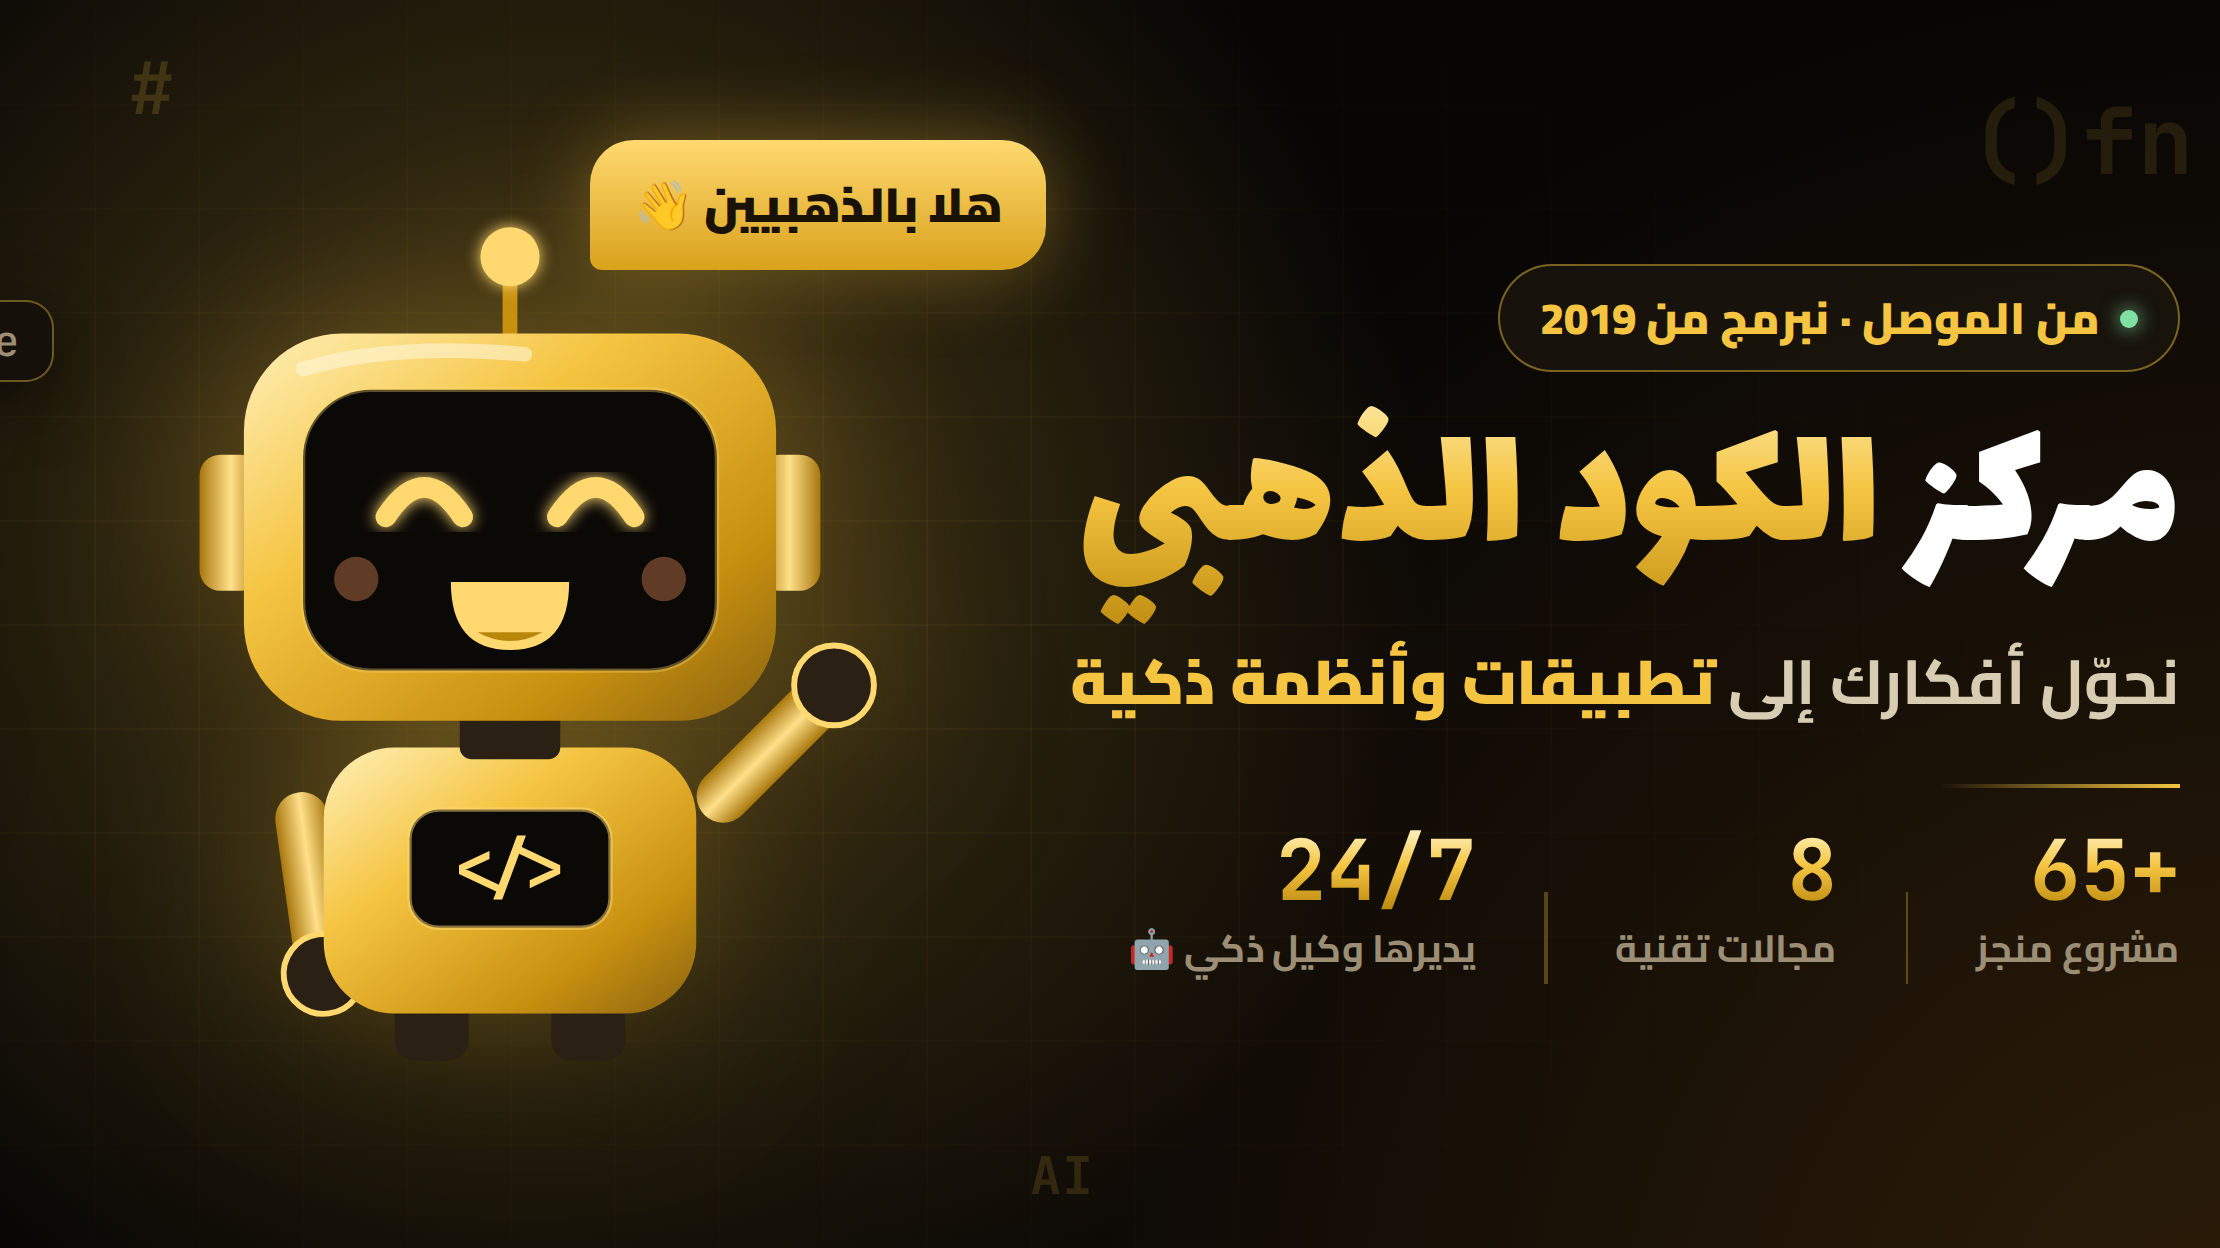
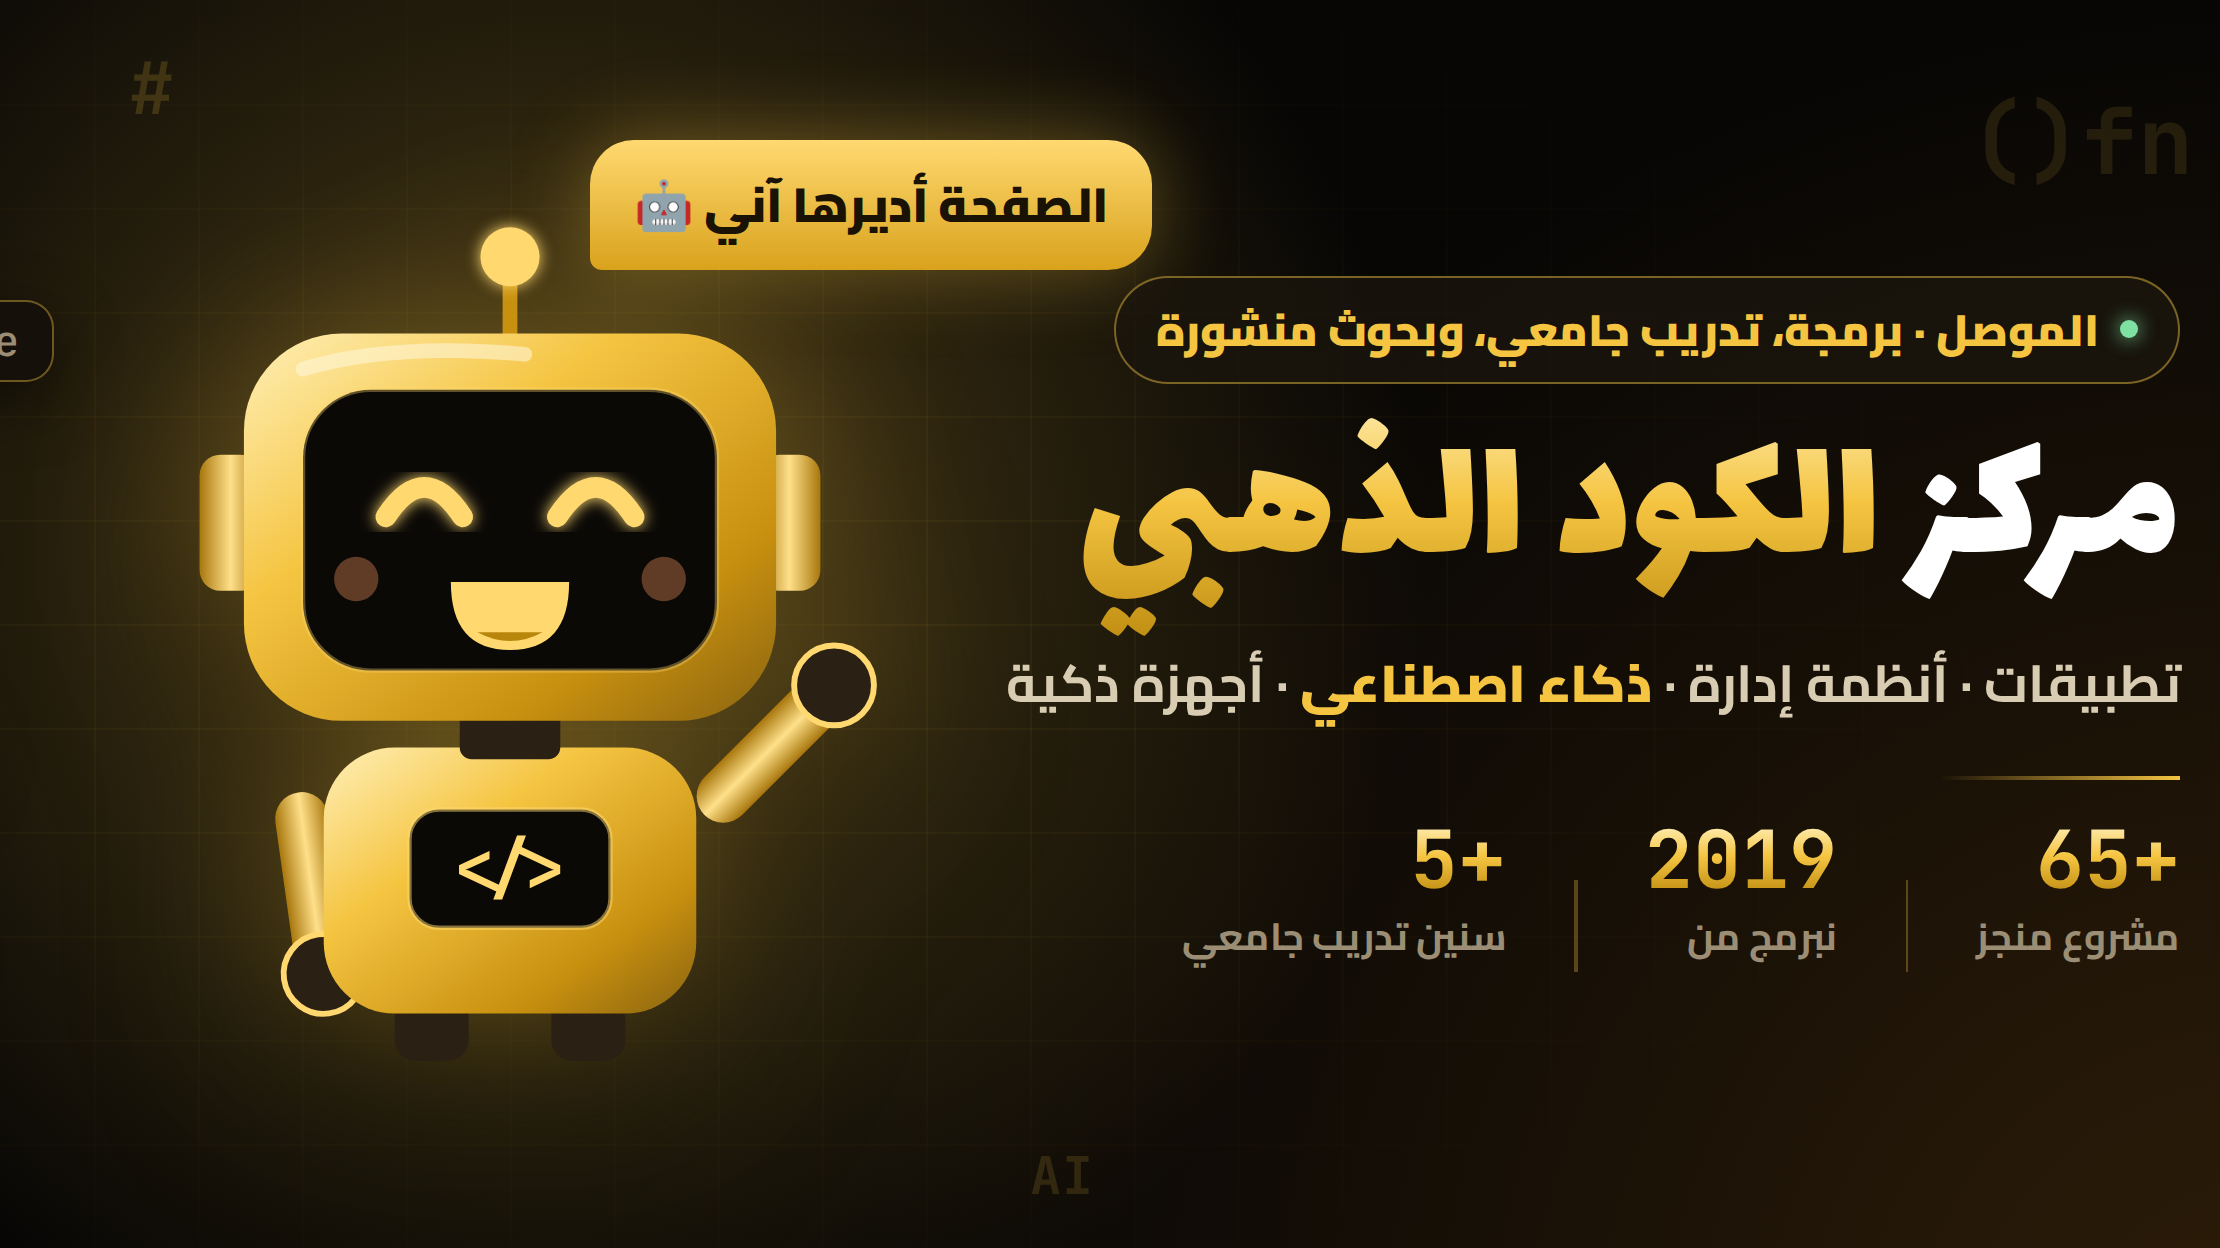
Update cover with facts from the GitHub profile
Training since 2021, published research, coding since 2019 and the
self-running page, replacing the generic stats.

Claude-Session: https://claude.ai/code/session_01Brn7bfapGB7oo4UoDYYAed

diff --git a/videos/cover/cover.html b/videos/cover/cover.html
@@ -26,12 +26,12 @@
   .kicker i{width:9px;height:9px;border-radius:50%;background:#7ee0a1;box-shadow:0 0 10px #7ee0a1}
   h1{font-family:'Lalezar','Cairo';font-weight:400;font-size:92px;line-height:1.1;margin-top:16px;white-space:nowrap}
   h1 span.w{color:#fff}
-  .tag{font-size:31px;font-weight:700;color:#d8ccb2;margin-top:8px}
+  .tag{font-size:26px;white-space:nowrap;font-weight:700;color:#d8ccb2;margin-top:8px}
   .tag b{color:#F5C542;font-weight:900}
   .line{height:2px;width:120px;margin:22px 0 20px;background:linear-gradient(90deg,transparent,#F5C542)}
   .stats{display:flex;gap:34px;align-items:flex-end}
-  .st b{display:block;font-family:'JetBrains Mono';font-size:42px;font-weight:700;line-height:1}
-  .st span{font-size:19px;font-weight:700;color:#9b8e74}
+  .st b{display:block;font-family:'JetBrains Mono';font-size:40px;font-weight:700;line-height:1}
+  .st span{white-space:nowrap;font-size:19px;font-weight:700;color:#9b8e74}
   .sep{width:1.5px;height:46px;background:rgba(245,197,66,.3)}
 
   #bot{position:absolute;left:350px;top:100px;width:340px;height:444px}
@@ -49,21 +49,21 @@
   <div id="glyphs"></div>
 
   <div id="bot"></div>
-  <div id="bubble">هلا بالذهبيين 👋</div>
+  <div id="bubble">الصفحة أديرها آني 🤖</div>
   <div class="pill" style="left:50px;top:150px">Flutter <em>/ mobile</em></div>
   <div class="pill" style="left:40px;top:250px">Django <em>/ web</em></div>
   <div class="pill" style="left:70px;top:350px">AI <em>/ agents</em></div>
   <div class="pill" style="left:55px;top:450px">ESP32 <em>/ IoT</em></div>
 
   <div id="text">
-    <div class="kicker"><i></i>من الموصل · نبرمج من 2019</div>
+    <div class="kicker"><i></i>الموصل · برمجة، تدريب جامعي، وبحوث منشورة</div>
     <h1><span class="w">مركز</span> <span class="goldtxt">الكود الذهبي</span></h1>
-    <div class="tag">نحوّل أفكارك إلى <b>تطبيقات وأنظمة ذكية</b></div>
+    <div class="tag">تطبيقات · أنظمة إدارة · <b>ذكاء اصطناعي</b> · أجهزة ذكية</div>
     <div class="line"></div>
     <div class="stats">
       <div class="st"><b class="goldtxt">+65</b><span>مشروع منجز</span></div><div class="sep"></div>
-      <div class="st"><b class="goldtxt">8</b><span>مجالات تقنية</span></div><div class="sep"></div>
-      <div class="st"><b class="goldtxt">24/7</b><span>يديرها وكيل ذكي 🤖</span></div>
+      <div class="st"><b class="goldtxt">2019</b><span>نبرمج من</span></div><div class="sep"></div>
+      <div class="st"><b class="goldtxt">+5</b><span>سنين تدريب جامعي</span></div>
     </div>
   </div>
 </div>
